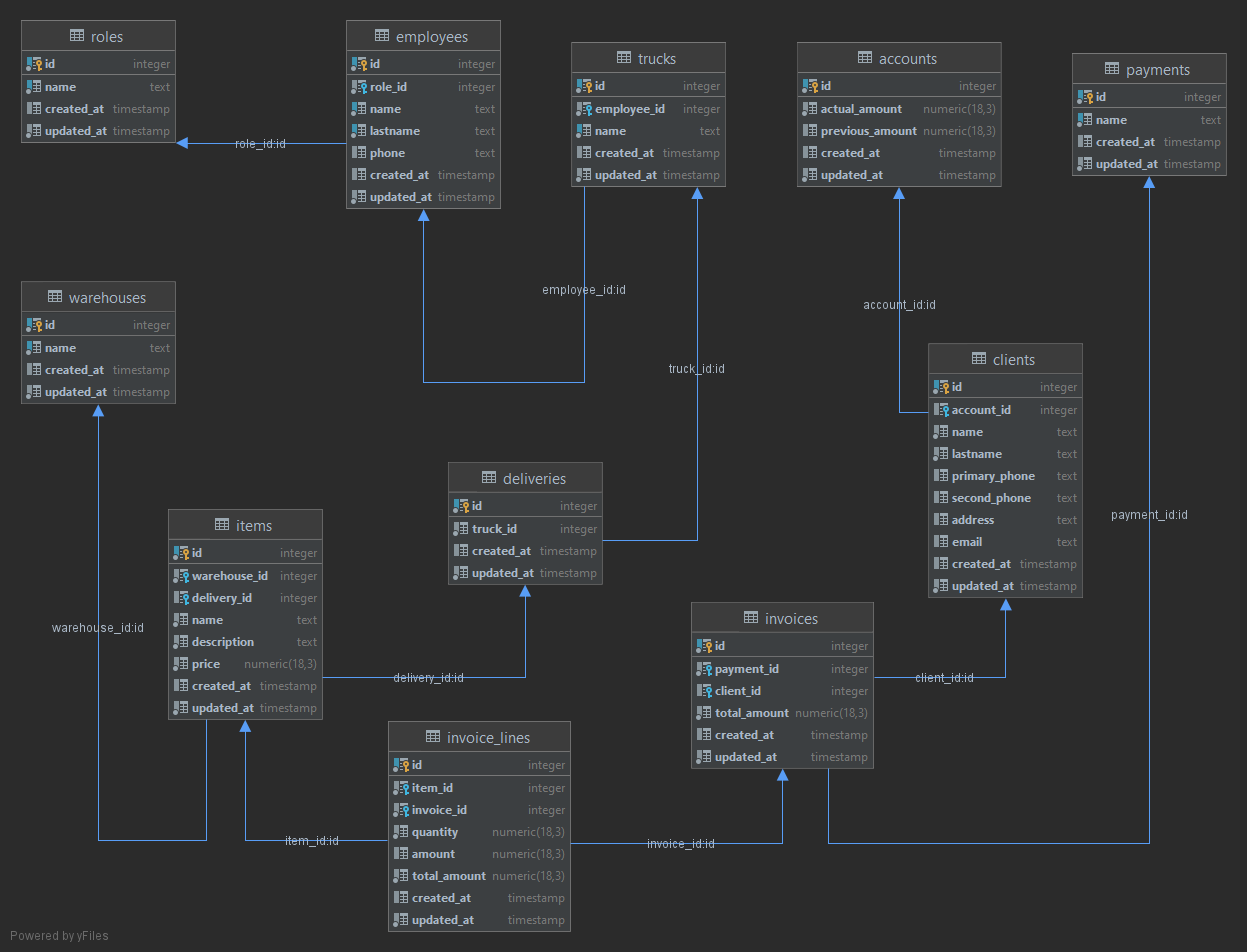
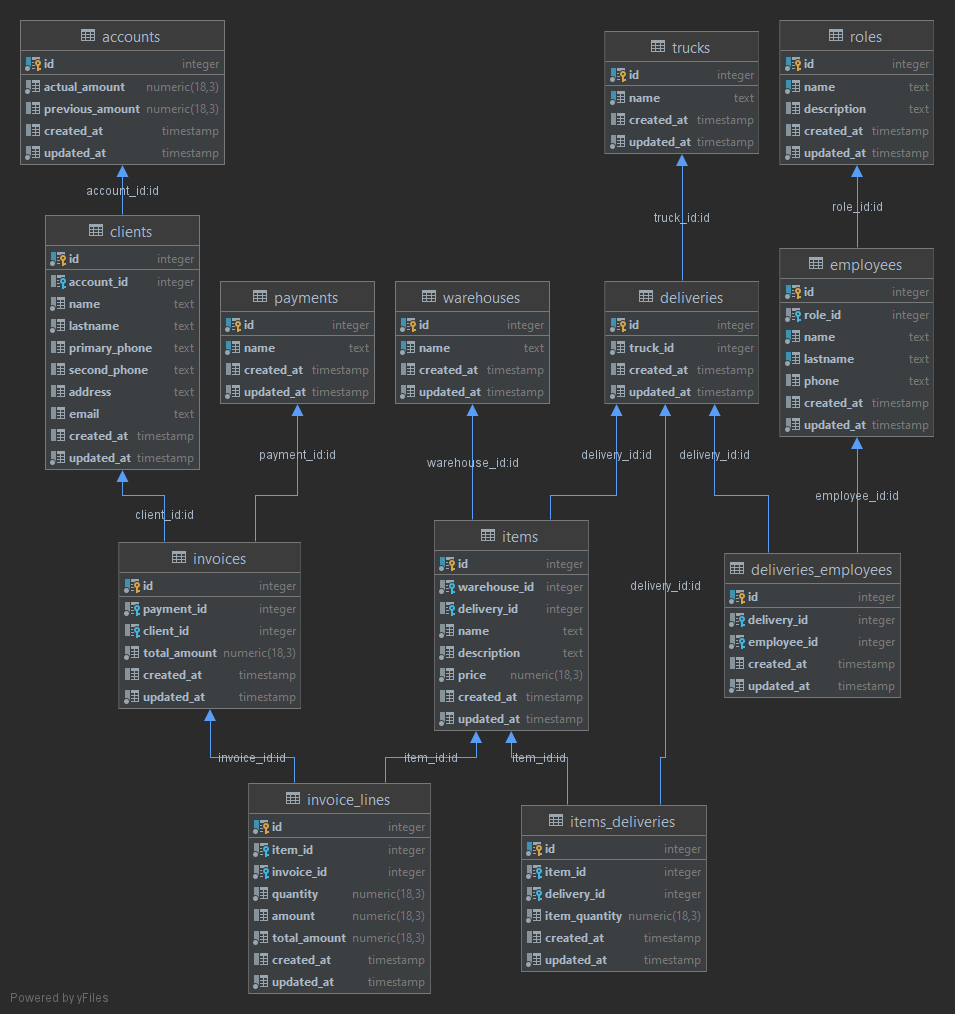
database changes, uml and readme updated

diff --git a/README.md b/README.md
@@ -1,2 +1,29 @@
 # go_store
-Go store with golang
+Go store with golang and react
+
+## Environment
+- go 1.16.4+
+- yarn 1.22.10+
+- node 14.17.0+
+- postgreSQL 13.3+
+
+## Set-up
+
+- Create user for database: 
+  * CREATE ROLE my_role WITH LOGIN PASSWORD '1234';
+
+## Create the database:
+- In order to create the database structure we have to create
+the schema first, with the following command:
+
+    * CREATE DATABASE go_store OWNER my_role
+
+## .env
+- This is an example how the .env file must look like
+```
+  PORT=8000
+  DATABASE_POSTGRES_URI="postgres://my_role:1234@127.0.0.1:5432/go_store?sslmode=disable"
+  DATABASE_DRIVER="postgres"
+```
+
+
